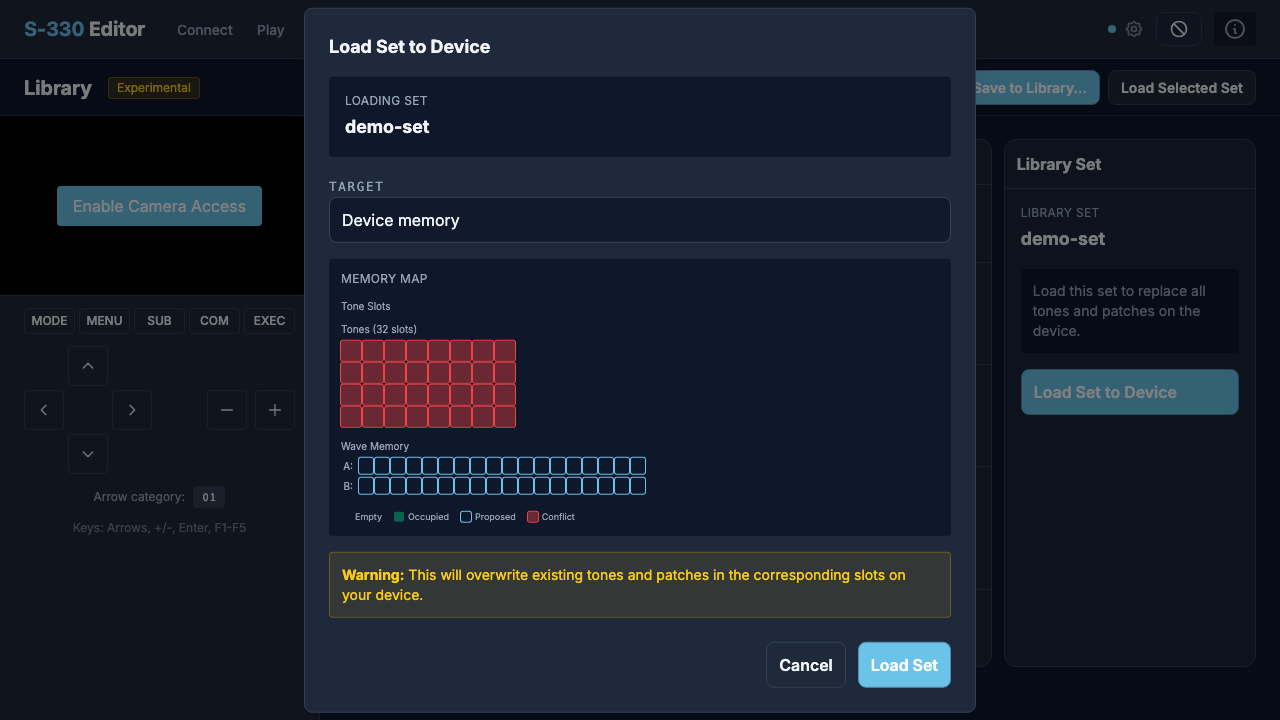
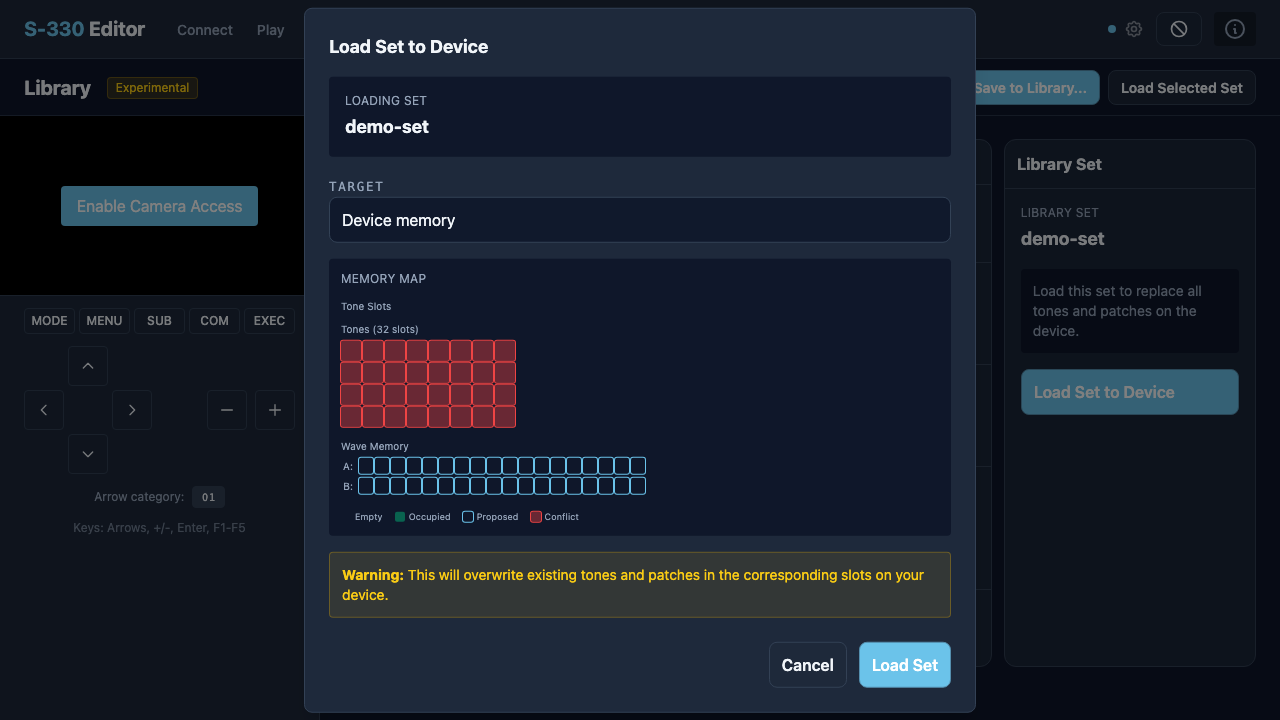
fix(s550-support): Phase 9 Task 7 code-quality review fix-up — make "Inter forbidden" true in code
Code-quality review of 1d508020 + fc2dd88c flagged four Important issues
all rooted in the same shape: the v3 codification declared "Inter is
forbidden" but the rule was only true inside editor-core/, not in the
editors the design system actually targets.

Important fixes:

1. modules/roland-sxx0-editor/src/index.css:7 — replaced
   `font-family: 'Inter', system-ui, sans-serif` with
   `var(--ac-font-body)`. This is the editor the design system codifies;
   shipping docs that ban Inter while the editor's <html> renders Inter
   is the "convention canon" trap .claude/rules/agent-discipline.md
   warns against.

2. modules/akai-s3k-editor/src/index.css:7 — same Inter replacement.
   Sibling editor inherits the same v3 rule because DESIGN-SYSTEM.md is
   repo-wide.

3. modules/d110-editor/src/index.css:6 — same Inter replacement. Note
   the d110 declaration was on :root (not html), inside a longer
   fallback chain ending in Avenir/Helvetica/Arial; all of those are
   absorbed by --ac-font-body's IBM Plex Sans + system-ui chain.

   (modules/jv1080-editor/src/index.css already used IBM Plex Sans
   inline; left in place pending a separate consistency sweep that
   would route it through --ac-font-body as well.)

4. DESIGN-SYSTEM.md:347 — removed an unredacted editing artifact
   `.ac-checkbox__label (no — uses body)` from the Display row of the
   typography table. The class belongs only in the Body row (where it
   was already listed).
[…]

diff --git a/modules/editor-core/src/design/layout-primitives.css b/modules/editor-core/src/design/layout-primitives.css
@@ -12,10 +12,11 @@
  */
 
 :root {
-  /* --ac-font-sans / --ac-font-mono moved to tokens.css during Phase 9 Task 7.
-     Inter was removed from the body stack (forbidden by the v3 design
-     language); --ac-font-body is the canonical body face. JetBrains Mono is
-     now the primary mono face per the v3 typography scale. */
+  /* --ac-font-mono moved to tokens.css during Phase 9 Task 7.
+     --ac-font-sans was deleted; consumers migrated to --ac-font-body,
+     whose fallback chain contains no Inter (forbidden by the v3 design
+     language). JetBrains Mono is the primary mono face per the v3
+     typography scale. See DESIGN-SYSTEM.md § Typography. */
   --ac-text-xs: 0.75rem;
   --ac-text-sm: 0.875rem;
   --ac-text-md: 1rem;

diff --git a/modules/d110-editor/src/index.css b/modules/d110-editor/src/index.css
@@ -3,7 +3,7 @@
 @tailwind utilities;
 
 :root {
-  font-family: Inter, system-ui, Avenir, Helvetica, Arial, sans-serif;
+  font-family: var(--ac-font-body);
   line-height: 1.5;
   font-weight: 400;
 

diff --git a/modules/akai-s3k-editor/src/index.css b/modules/akai-s3k-editor/src/index.css
@@ -4,7 +4,7 @@
 
 @layer base {
   html {
-    font-family: 'Inter', system-ui, sans-serif;
+    font-family: var(--ac-font-body);
   }
 
   body {

diff --git a/modules/roland-sxx0-editor/src/index.css b/modules/roland-sxx0-editor/src/index.css
@@ -4,7 +4,7 @@
 
 @layer base {
   html {
-    font-family: 'Inter', system-ui, sans-serif;
+    font-family: var(--ac-font-body);
   }
 
   body {

diff --git a/DESIGN-SYSTEM.md b/DESIGN-SYSTEM.md
@@ -344,7 +344,7 @@ Three roles, three faces. Every token below is defined in `editor-core/src/desig
 
 | Role | Token | Intended face | Used by |
 |------|-------|---------------|---------|
-| Display / instrument-face | `--ac-font-display` | **Departure Mono** | Headings, panel-label eyebrows, slot labels, page titles, `.ac-field-label`, `.ac-checkbox__label` (no — uses body), envelope labels |
+| Display / instrument-face | `--ac-font-display` | **Departure Mono** | Headings, panel-label eyebrows, slot labels, page titles, `.ac-field-label`, envelope labels |
 | UI / body | `--ac-font-body` | **IBM Plex Sans** | Prose, list-item names (`.ac-list-name`), buttons, checkbox labels (`.ac-checkbox__label`), dialog body |
 | Data / numeric | `--ac-font-mono` | **JetBrains Mono** | Numeric readouts (`.ac-number-input`), ticks (`.ac-range-bar__tick`), slot identifiers, build-info, log entries |
 
@@ -391,21 +391,24 @@ Every list-detail editor page renders inside a fixed-viewport flex column with i
 - Hardcoded pixel widths on columns (e.g., `width: 320px`). Use flex ratios or grid fractions.
 - Omitting `width: 100%` on a flex `<main>` in a column-direction parent. Visual chrome appears to render until you switch pages and notice the cross-axis varies.
 
-**Example:**
+**Canonical class chain:** the outer `<main>` wears `.ac-page` + `.ac-page-shell` (shared across every page). The list+detail grid inside is page-scoped (`.<page>__app-shell`) because the column proportions differ per page — patches uses one list ratio, tones uses another. The page-scoped class is the only place hardcoding rem dimensions; the outer shell only sets the fixed-viewport flex column.
+
+**Example** (taken from `PatchesPage` — `.tones__app-shell`, `.library__app-shell` etc. follow the same shape):
 
 ```html
-<main class="page-shell">
+<main class="ac-page ac-page-shell">
   <header class="ac-page-title-row">…</header>
-  <div class="page-columns">
+  <div class="patches__app-shell" aria-labelledby="patches-heading">
     <aside class="ac-list ac-list-scroll">…</aside>
-    <section class="detail-pane">…</section>
+    <section class="patches__detail">…</section>
   </div>
   <footer class="ac-detail-live">…</footer>
 </main>
 ```
 
 ```css
-.page-shell {
+/* Shared shell: in editor-core/src/design/layout-primitives.css */
+.ac-page-shell {
   display: flex;
   flex-direction: column;
   width: 100%;
@@ -413,13 +416,16 @@ Every list-detail editor page renders inside a fixed-viewport flex column with i
   overflow: hidden;
 }
 
-.page-columns {
+/* Page-scoped grid: in the page's own CSS file (e.g., PatchesPage.css) */
+.patches__app-shell {
   display: grid;
   grid-template-columns: 18rem 1fr;
   flex: 1;
   min-height: 0; /* allow children to overflow within the flex track */
 }
 ```
+
+Anti-pattern: inventing a new `.page-shell` / `.page-columns` / `.detail-pane` name when the canonical chain already covers the role. Promote a sibling class to `.ac-*` (per workplan §588 duplication-audit gate) if a primitive recurs across pages.
 
 ---
 
